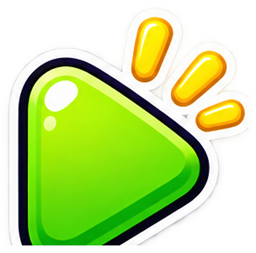
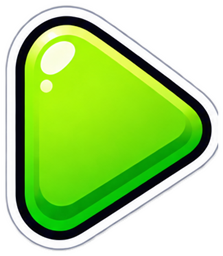
Novos icones dos botoes (inclui recomecar e paleta)

diff --git a/index.html b/index.html
@@ -62,8 +62,7 @@
           <img src="img/ui/settings.png" alt=""><span class="plate" data-i18n="lblSettings"></span>
         </button>
         <button id="btn-restart" class="img-btn" data-i18n-aria="aRestart">
-          <span class="restart-ico"><svg viewBox="0 0 24 24"><path d="M12 5a7 7 0 1 1-6.6 4.7" fill="none" stroke="currentColor" stroke-width="3" stroke-linecap="round"/><path d="M4.2 4.5v5.4h5.4" fill="none" stroke="currentColor" stroke-width="3" stroke-linecap="round" stroke-linejoin="round"/></svg></span>
-          <span class="plate" data-i18n="lblRestart"></span>
+          <img src="img/ui/restart.png" alt=""><span class="plate" data-i18n="lblRestart"></span>
         </button>
         <button id="btn-skip" class="img-btn" data-i18n-aria="aSkip">
           <img src="img/ui/skip.png" alt=""><span class="plate" data-i18n="lblSkip"></span>
@@ -137,7 +136,7 @@
         <li><i style="background:#fff">🖌</i><span data-i18n="help2"></span></li>
         <li><i style="background:#2166e6"></i><span data-i18n="help3"></span></li>
         <li><i style="background:#ffd81a">🌀</i><span data-i18n="help4"></span></li>
-        <li><i class="ico">↺</i><span data-i18n="help5"></span></li>
+        <li><img src="img/ui/restart.png" alt=""><span data-i18n="help5"></span></li>
         <li><img src="img/ui/hint.png" alt=""><span data-i18n="help7"></span></li>
         <li><img src="img/ui/skip.png" alt=""><span data-i18n="help6"></span></li>
       </ol>

diff --git a/css/style.css b/css/style.css
@@ -82,20 +82,12 @@ html, body {
   transition: transform .12s;
 }
 .img-btn[hidden] { display: none; }
-.img-btn > img, .img-btn > .restart-ico {
+.img-btn > img {
   width: var(--btn); height: var(--btn); object-fit: contain; display: block;
   filter: drop-shadow(0 3px 2px rgba(0, 0, 0, .25));
 }
-.img-btn:hover > img, .img-btn:hover > .restart-ico { transform: scale(1.06); }
+.img-btn:hover > img { transform: scale(1.06); }
 .img-btn:active { transform: translateY(3px) scale(.94); }
-/* ↺ não tem figura na folha: círculo no mesmo estilo de adesivo */
-.img-btn > .restart-ico {
-  box-sizing: border-box; width: calc(var(--btn) * .84); height: calc(var(--btn) * .84); margin: calc(var(--btn) * .08);
-  border-radius: 50%; display: grid; place-items: center; color: #fff;
-  background: radial-gradient(circle at 35% 30%, color-mix(in srgb, var(--purple-l) 85%, #fff), var(--purple) 70%);
-  border: 3px solid #2a1838; box-shadow: 0 0 0 4px #fff;
-}
-.restart-ico svg { width: 62%; height: 62%; }
 /* Plaquinha creme com o nome (como na arte), só em telas grandes */
 .img-btn .plate {
   display: none;
@@ -114,7 +106,7 @@ html, body {
 }
 
 #btn-restart.attention { animation: attention 0.9s ease-in-out 4; }
-#btn-restart.attention .restart-ico { background: #ff9f1c; }
+#btn-restart.attention img { filter: drop-shadow(0 0 4px #ff9f1c) drop-shadow(0 0 8px #ff9f1c); }
 @keyframes attention {
   0%, 100% { transform: scale(1); }
   50% { transform: scale(1.18); }

diff --git a/README.md b/README.md
@@ -49,9 +49,9 @@ Alternativa com Node: `npx serve .`
 | 🖼 Temas | Clássico, Oceano, Floresta, Doce e Noite (cores do HUD, fundo e mesa) |
 | 🚫 Retirar Ads | Por enquanto só mostra "Em breve" (o jogo ainda não tem anúncios nem loja). Quando a compra existir, chame `MixGame.setNoAds(true)` e o botão some |
 
-As figuras dos botões ficam em `img/ui/` (recortadas da folha de botões, sem a plaquinha de texto). O nome
-de cada botão é desenhado por código, traduzido, numa plaquinha creme que só aparece em telas grandes.
-`play.png` é usado em Continuar/Jogar de novo; `ranking.png` está guardado para quando houver ranking.
+As figuras dos botões ficam em `img/ui/` (recortadas da folha de ícones). O nome de cada botão é desenhado
+por código, traduzido, numa plaquinha creme que só aparece em telas grandes. `play.png` é usado em
+Continuar/Jogar de novo; `ranking.png` e `palette.png` estão guardados (ainda sem botão).
 
 As escolhas ficam salvas no aparelho (`localStorage`: `mistura.settings`, `mistura.lang`).
 A música é um loop gerado por código (WebAudio), sem arquivos.
